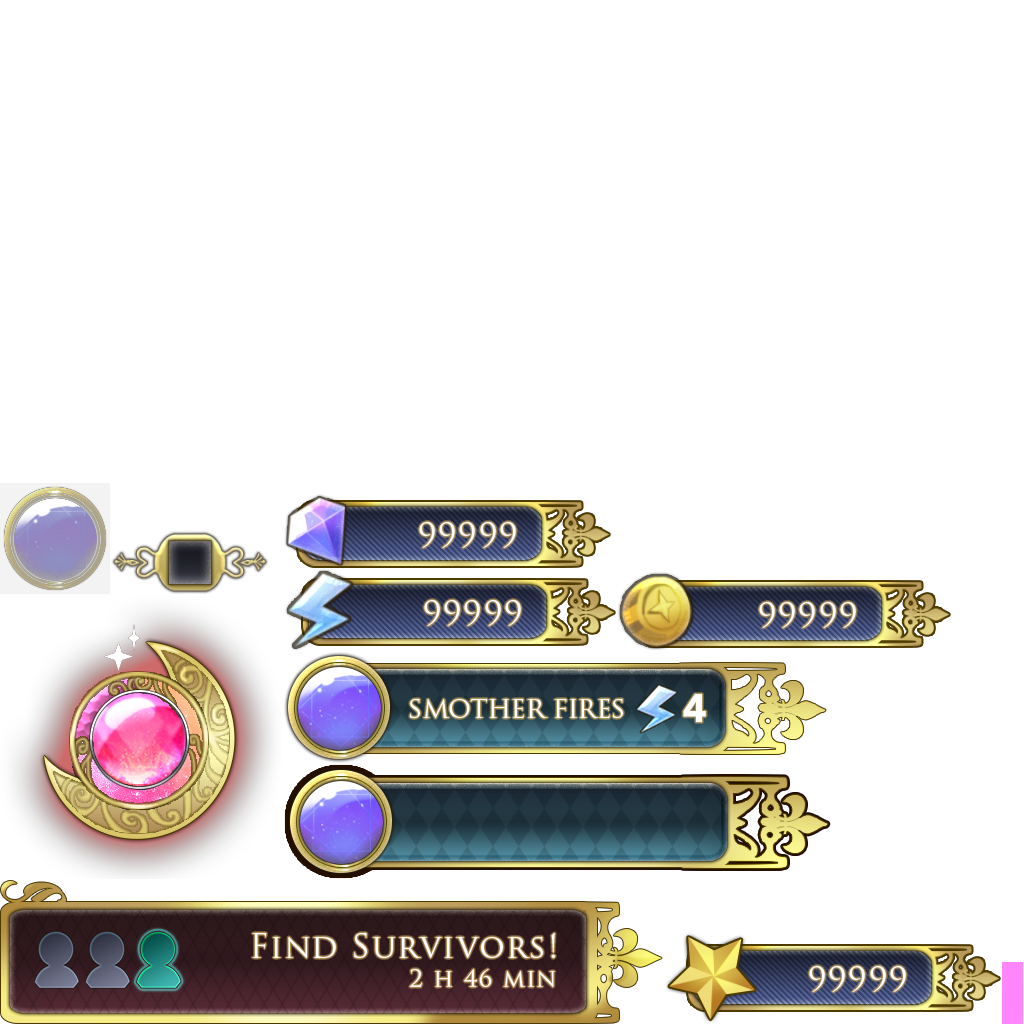
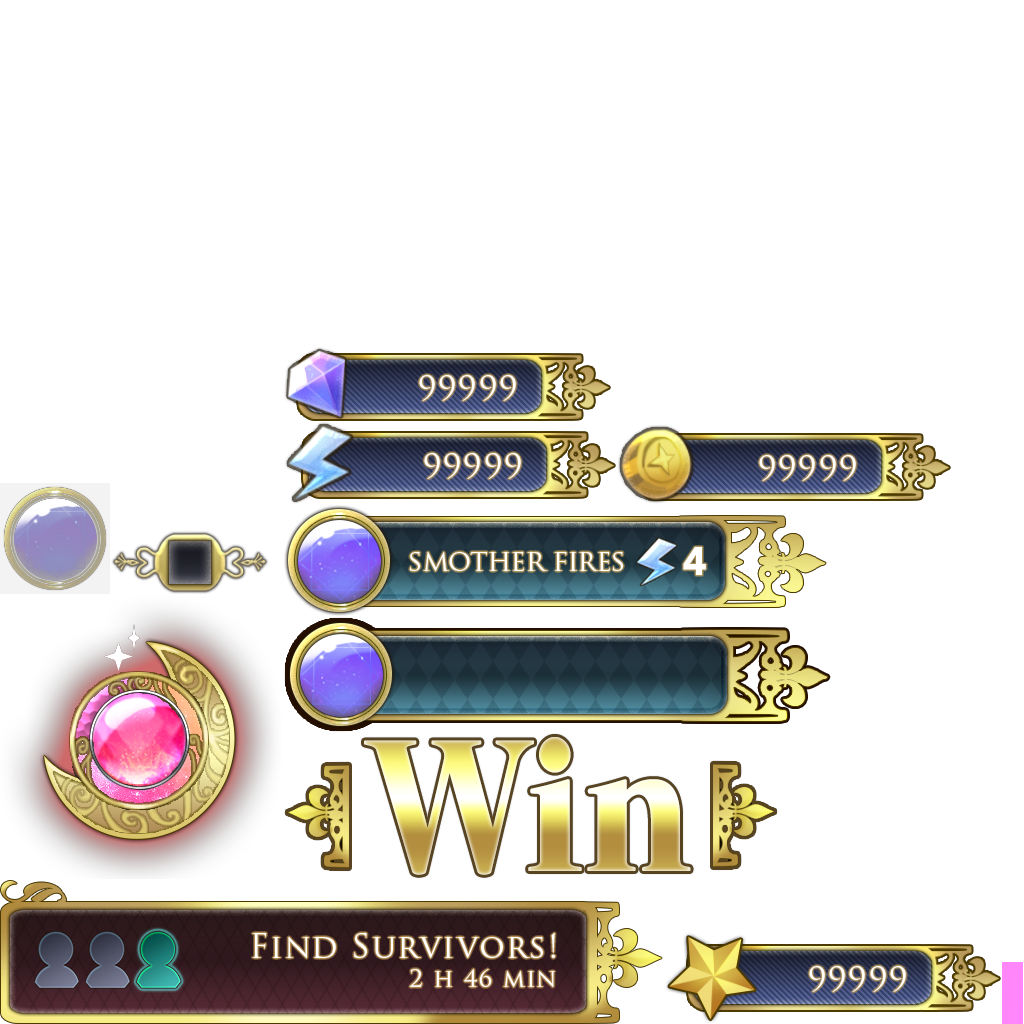
- Added Win Animation for Ending - Fixed UIGauge - Fixed State Transition bug on Death

Changed region(s): [[0.2812, 0.3438, 0.9375, 0.875]]

diff --git a/Assets/Resources/Scripts/Battle/BattleManager.cs b/Assets/Resources/Scripts/Battle/BattleManager.cs
@@ -33,6 +33,7 @@ public class BattleManager : MonoBehaviour
 
 	[SerializeField]UIGauge			m_finishGauge;
 	[SerializeField]UIButton		m_finishButton;
+	[SerializeField]GameObject		m_winLogo;
 
 	// Battle Phases
 	public enum BattlePhase
@@ -41,15 +42,19 @@ public class BattleManager : MonoBehaviour
 		ATTACK,
 		SPECIAL,
 		STUNNED,
+		END,
 
 		TOTAL
 
 	};
 
 	BattlePhase m_phase; 
-	public BattlePhase getBattlePhase
+	public BattlePhase CurBattlePhase
 	{
 		get{return m_phase;}
+		set{
+			m_phase = value;
+		}
 	}
 
 	// Gesture State
@@ -183,8 +188,11 @@ public class BattleManager : MonoBehaviour
 				}
 			}
 			break;
-
-			case BattlePhase.STUNNED:
+			case BattlePhase.END:
+			{
+				if(m_winLogo != null)
+					m_winLogo.SetActive(true);
+			}
 			break;
 		}
 	}
@@ -199,7 +207,7 @@ public class BattleManager : MonoBehaviour
 			m_gestureGenerator.DestroyGesture();
 
 		++gaugeCount;
-		m_finishGauge.reduce (-1);
+		m_finishGauge.gain (1);
 
 		if(m_phase == BattlePhase.SPECIAL)
 		{
@@ -218,6 +226,12 @@ public class BattleManager : MonoBehaviour
 		return m_instance;
 	}
 
+	public void ReduceGauge()
+	{
+		--gaugeCount;
+		m_finishGauge.reduce(1);
+	}
+
 
 	void OnFinishPressed()
 	{
@@ -234,4 +248,5 @@ public class BattleManager : MonoBehaviour
 
 		m_finishButton.isEnabled = false;
 	}
+
 }

diff --git a/Assets/Resources/Scripts/Battle/Enemy.cs b/Assets/Resources/Scripts/Battle/Enemy.cs
@@ -158,7 +158,7 @@ public class Attack : FSMState
 	public override void OnExit()
 	{
 		pmgr.Damaged(enemy.attack);	
-
+		bmgr.ReduceGauge();
 		// Restart Gesture State
 		bmgr.currentGestureState = BattleManager.GestureState.START;
 		Debug.Log("Exiting Attack State");
@@ -169,10 +169,13 @@ public class Attack : FSMState
 public class Death : FSMState
 {
 	Enemy enemy;
+	BattleManager bmr;
+
 	public Death(Enemy emy)
 	{
 		stateID = StateID.E_DEATH;
 		enemy = emy;
+		bmr = BattleManager.Get();
 	}
 
 	public override void OnEnter()
@@ -186,17 +189,16 @@ public class Death : FSMState
 
 	public override void Transit()
 	{
-		if(enemy.IsAnimationComplete())
-		{
-			GameObject.DestroyObject(enemy.gameObject);
-			
-		}
+
 	}
 
 	public override void Update()
 	{
-		// Play Death Animation
-
+		if(enemy.IsAnimationComplete())
+		{
+			bmr.CurBattlePhase = BattleManager.BattlePhase.END;
+			GameObject.DestroyObject(enemy.gameObject);
+		}
 	}
 }
 

diff --git a/Assets/Resources/Scripts/Gestures/InputManager.cs b/Assets/Resources/Scripts/Gestures/InputManager.cs
@@ -129,7 +129,7 @@ public class InputManager : MonoBehaviour {
     /// </summary>
     void SpecialAttackPhaseCheck()
     {
-	 	if(m_battleMgr.getBattlePhase != BattleManager.BattlePhase.SPECIAL)
+	 	if(m_battleMgr.CurBattlePhase != BattleManager.BattlePhase.SPECIAL)
 	 		return;
 	 		
 		if (!IsTouchInProgress &&  currtime >= timetoEnd)//end
@@ -181,7 +181,7 @@ public class InputManager : MonoBehaviour {
 
 	void AttackPhaseCheck()
     {
-		if(m_battleMgr.getBattlePhase != BattleManager.BattlePhase.ATTACK)
+		if(m_battleMgr.CurBattlePhase != BattleManager.BattlePhase.ATTACK)
 	 		return;
 	 	 
 		if (!IsTouchInProgress)//end

diff --git a/Assets/Resources/Scripts/Utility/FSMState.cs b/Assets/Resources/Scripts/Utility/FSMState.cs
@@ -55,6 +55,11 @@ public abstract class FSMState
 			return;
 		}
 
+		if(trans == Transition.E_NOHP)
+		{
+			Debug.Log("trans: " + trans.ToString() + " StateID: " + id.ToString());
+		}
+
 		// check if current map already contains key
 		if(map.ContainsKey(trans))
 		{
@@ -63,6 +68,8 @@ public abstract class FSMState
 		}
 
 		map.Add(trans, id);
+
+		Debug.Log("Sucessfully added: " + trans.ToString() + " id extract: " + map[trans] + " Current StateID: " + STATE_ID.ToString());
 	}
 	// Delete Transition
 	public void DeleteTransition(Transition trans)

diff --git a/Assets/Resources/Scripts/Gestures/UIGauge.cs b/Assets/Resources/Scripts/Gestures/UIGauge.cs
@@ -29,6 +29,7 @@ public class UIGauge : MonoBehaviour {
 		else
 		{
 			m_prevVal = m_currentVal;
+			m_sliderGreen.sliderValue = m_currentVal/m_totalVal;
 			m_sliderRed.sliderValue = m_prevVal/m_totalVal;
 		}
 
